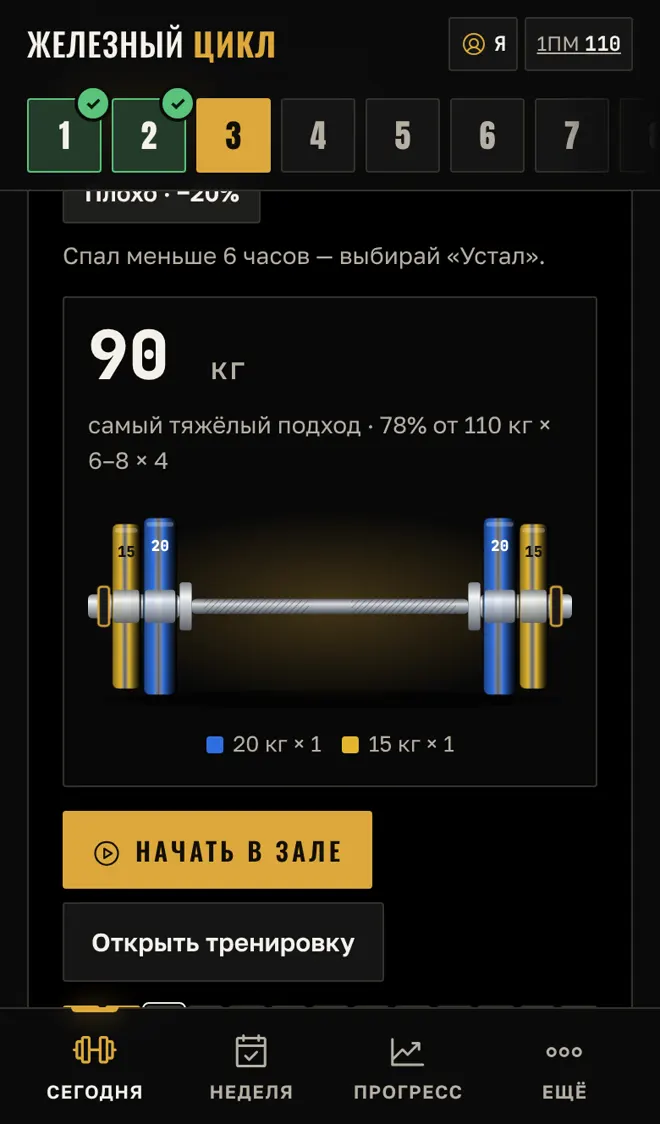
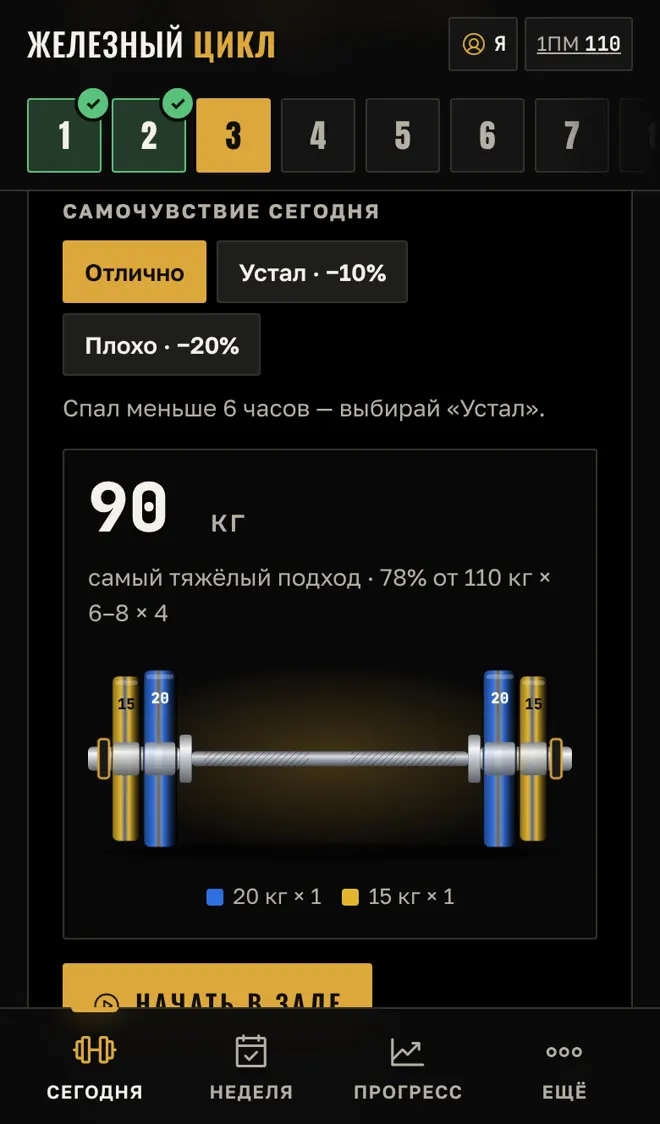
Рекламная страница, вычитка: 37 тренировок (а не 39), карточка «Все 13 недель» вместо «Цену уточни», вопрос «Где хранятся мои данные?», чистый кадр «Сегодня», экраны в карусели грузятся сразу
Claude-Session: https://claude.ai/code/session_01WY36WungF8ooC8Rrmfh5BQ

diff --git a/kino.html b/kino.html
@@ -180,7 +180,8 @@ input[type=range]::-moz-range-thumb { width: 22px; height: 22px; border-radius: 
 .quote .bg { position: absolute; inset: 0; z-index: -1; }
 .quote .bg img { width: 100%; height: 100%; object-fit: cover; object-position: 50% 50%; opacity: .5; }
 .quote .bg::after { content: ""; position: absolute; inset: 0; background: linear-gradient(180deg, var(--bg), rgba(9,9,8,.45) 40%, rgba(9,9,8,.45) 60%, var(--bg)); }
-.quote .wrap { padding-top: 120px; padding-bottom: 120px; }
+.quote .wrap { padding-top: 84px; padding-bottom: 84px; }
+@media (min-width: 900px) { .quote .wrap { padding-top: 140px; padding-bottom: 140px; } }
 .quote blockquote { margin: 0; font: 400 clamp(34px, 9vw, 72px)/1 var(--poster); text-transform: uppercase; max-width: 15em; }
 .quote blockquote::before { content: "«"; color: var(--gold); }
 .quote blockquote::after { content: "»"; color: var(--gold); }
@@ -203,7 +204,7 @@ input[type=range]::-moz-range-thumb { width: 22px; height: 22px; border-radius: 
 .ticket .tag { font: 600 12px var(--display); letter-spacing: .22em; text-transform: uppercase; color: var(--dim); }
 .ticket.free .tag { color: var(--gold); }
 .ticket .cost { font: 400 clamp(44px, 12vw, 64px)/.95 var(--poster); text-transform: uppercase; margin: 12px 0 4px; }
-.ticket.full .cost { font-size: clamp(30px, 8vw, 40px); line-height: 1.08; }
+.ticket.full .cost { font-size: clamp(40px, 11vw, 56px); line-height: 1; }
 .ticket ul { margin: 14px 0 0; padding: 0; list-style: none; display: grid; gap: 8px; color: #e0d9ca; font-size: 15px; }
 .ticket li::before { content: "—"; color: var(--gold); margin-right: 8px; }
 .ticket .btn { width: 100%; margin-top: 22px; }
@@ -268,7 +269,7 @@ footer a { color: var(--muted); }
       <h1><span class="l">Хватит</span><span class="l">гадать,</span><span class="l">сколько вешать</span></h1>
       <p class="lead">Приложение скажет вес на каждый подход и какие блины повесить. Лёгкие, средние и тяжёлые недели — волной, до нового максимума.</p>
       <div class="hero-cta"><a class="btn btn-gold pulse" href="#calc">Узнать свой вес <svg viewBox="0 0 24 24" aria-hidden="true"><path d="M12 5v14M6 13l6 6 6-6" fill="none" stroke="currentColor" stroke-width="2.2" stroke-linecap="round" stroke-linejoin="round"/></svg></a></div>
-      <p class="note"><span>2 недели бесплатно</span><span>без регистрации</span><span>без интернета в зале</span></p>
+      <p class="note"><span>2 недели бесплатно</span><span>без регистрации</span><span>работает без интернета</span></p>
     </div>
   </section>
 
@@ -314,7 +315,7 @@ footer a { color: var(--muted); }
 
   <div class="nums" role="list">
     <div role="listitem" class="fade"><b>13</b><span>недель от старта до нового максимума</span></div>
-    <div role="listitem" class="fade"><b>39</b><span>тренировок: 3 в неделю, в любые дни</span></div>
+    <div role="listitem" class="fade"><b>37</b><span>тренировок: 3 в неделю, в любые дни</span></div>
     <div role="listitem" class="fade"><b>1</b><span>кнопка в зале: «Сделал подход»</span></div>
     <div role="listitem" class="fade"><b>0</b><span>расчётов в голове и на бумажке</span></div>
   </div>
@@ -324,9 +325,9 @@ footer a { color: var(--muted); }
       <p class="kicker fade">Как это в зале</p>
       <h2 class="fade">Открыл. Пожал. <span class="out">Записал.</span></h2>
       <div class="steps">
-        <div class="step fade"><div class="no">01</div><h3>Вес уже готов</h3><p>Открываешь «Сегодня» — там самый тяжёлый подход и блины. Ещё до зала.</p><div class="phone"><img src="img/promo-today.webp" alt="Экран «Сегодня»: 90 кг, 78% от максимума 110 кг, блины 20 и 15 кг на сторону" width="660" height="1124" loading="lazy"></div></div>
-        <div class="step fade"><div class="no">02</div><h3>Одна кнопка</h3><p>«Сделал подход» — отдых пошёл сам, голос подскажет следующий вес, экран не гаснет.</p><div class="phone"><img src="img/promo-gym.webp" alt="Режим зала: жим штанги лёжа 90 кг, подход 1 из 4, кнопка «Сделал подход»" width="660" height="1124" loading="lazy"></div></div>
-        <div class="step fade"><div class="no">03</div><h3>Сила растёт</h3><p>Записал повторы — программа сама прибавит вес. Нагрузка идёт волной, рекорды на графике.</p><div class="phone"><img src="img/promo-progress.webp" alt="График нагрузки по 13 неделям волной" width="660" height="1124" loading="lazy"></div></div>
+        <div class="step fade"><div class="no">01</div><h3>Вес уже готов</h3><p>Открываешь «Сегодня» — там самый тяжёлый подход и блины. Ещё до зала.</p><div class="phone"><img src="img/promo-today.webp" alt="Экран «Сегодня»: 90 кг, 78% от максимума 110 кг, блины 20 и 15 кг на сторону" width="660" height="1124" decoding="async"></div></div>
+        <div class="step fade"><div class="no">02</div><h3>Одна кнопка</h3><p>«Сделал подход» — отдых пошёл сам, голос подскажет следующий вес, экран не гаснет.</p><div class="phone"><img src="img/promo-gym.webp" alt="Режим зала: жим штанги лёжа 90 кг, подход 1 из 4, кнопка «Сделал подход»" width="660" height="1124" decoding="async"></div></div>
+        <div class="step fade"><div class="no">03</div><h3>Сила растёт</h3><p>Записал повторы — программа сама прибавит вес. Нагрузка идёт волной, рекорды на графике.</p><div class="phone"><img src="img/promo-progress.webp" alt="График нагрузки по 13 неделям волной" width="660" height="1124" decoding="async"></div></div>
       </div>
       <p class="swipe">Листай вбок →</p>
     </div>
@@ -363,8 +364,8 @@ footer a { color: var(--muted); }
         <div class="ticket free fade"><div class="tag">Старт</div><div class="cost">0 ₽</div><p class="small">Без регистрации и без карты. Просто открой.</p>
           <ul><li>недели 1 и 2 полностью</li><li>режим зала, таймер, голос, блины</li><li>запись подходов и графики</li></ul>
           <a class="btn btn-gold" href="./">Начать бесплатно</a></div>
-        <div class="ticket full fade"><div class="tag">Полная версия</div><div class="cost">Цену уточни у тренера</div>
-          <ul><li>все 13 недель и проверка максимума</li><li>вторая программа «Сила и рельеф»</li><li>новый цикл с новым максимумом</li></ul>
+        <div class="ticket full fade"><div class="tag">Полная версия</div><div class="cost">Все 13 недель</div><p class="small">Цену назовёт тренер — напиши ему в Telegram.</p>
+          <ul><li>недели 3–13 и проверка максимума</li><li>вторая программа «Сила и рельеф»</li><li>новый цикл с новым максимумом</li></ul>
           <a class="btn btn-line" href="https://t.me/Direj90" rel="noopener"><svg viewBox="0 0 24 24" aria-hidden="true"><path d="M21 4L3 11l6 2 2 6 3-4 5 4 2-15z" fill="none" stroke="currentColor" stroke-width="1.8" stroke-linejoin="round"/><path d="M9 13l12-9" stroke="currentColor" stroke-width="1.8"/></svg>Написать тренеру</a>
           <p class="small">В приложении: «Ещё» → «Полная версия» → отправь номер телефона в Telegram <a href="https://t.me/Direj90" rel="noopener">@Direj90</a> и получи код.</p></div>
       </div>
@@ -381,6 +382,7 @@ footer a { color: var(--muted); }
         <details><summary>Не знаю свой максимум. Что делать?</summary><p>Введи вес и сколько раз ты его выжимаешь — приложение посчитает максимум само.</p></details>
         <details><summary>Как получить полную версию?</summary><p>«Ещё» → «Полная версия», скопируй номер телефона и отправь тренеру в Telegram <a href="https://t.me/Direj90" rel="noopener">@Direj90</a>. Он пришлёт код — вставь, и откроются все недели. Код работает только на твоём телефоне.</p></details>
         <details><summary>Проверка максимума — не опасно?</summary><p>Правила чёткие: после разминки не больше 3 тяжёлых попыток, без отказа, стоп при потере техники. Жим и присед — только со страхующим, присед — в раме с упорами.</p></details>
+        <details><summary>Где хранятся мои данные?</summary><p>Только в твоём телефоне. Без регистрации, без почты и номера — приложение никуда не отправляет твои веса и записи. Чтобы не потерять их при смене телефона, сохрани резервную копию: «Ещё» → «Резервная копия».</p></details>
         <details><summary>Кому не подойдёт?</summary><p>Если впервые берёшь штангу — сначала поставь технику с тренером. Есть травма или боль — сначала к врачу. Нужны штанга, блины, гантели и скамья.</p></details>
       </div>
     </div>
